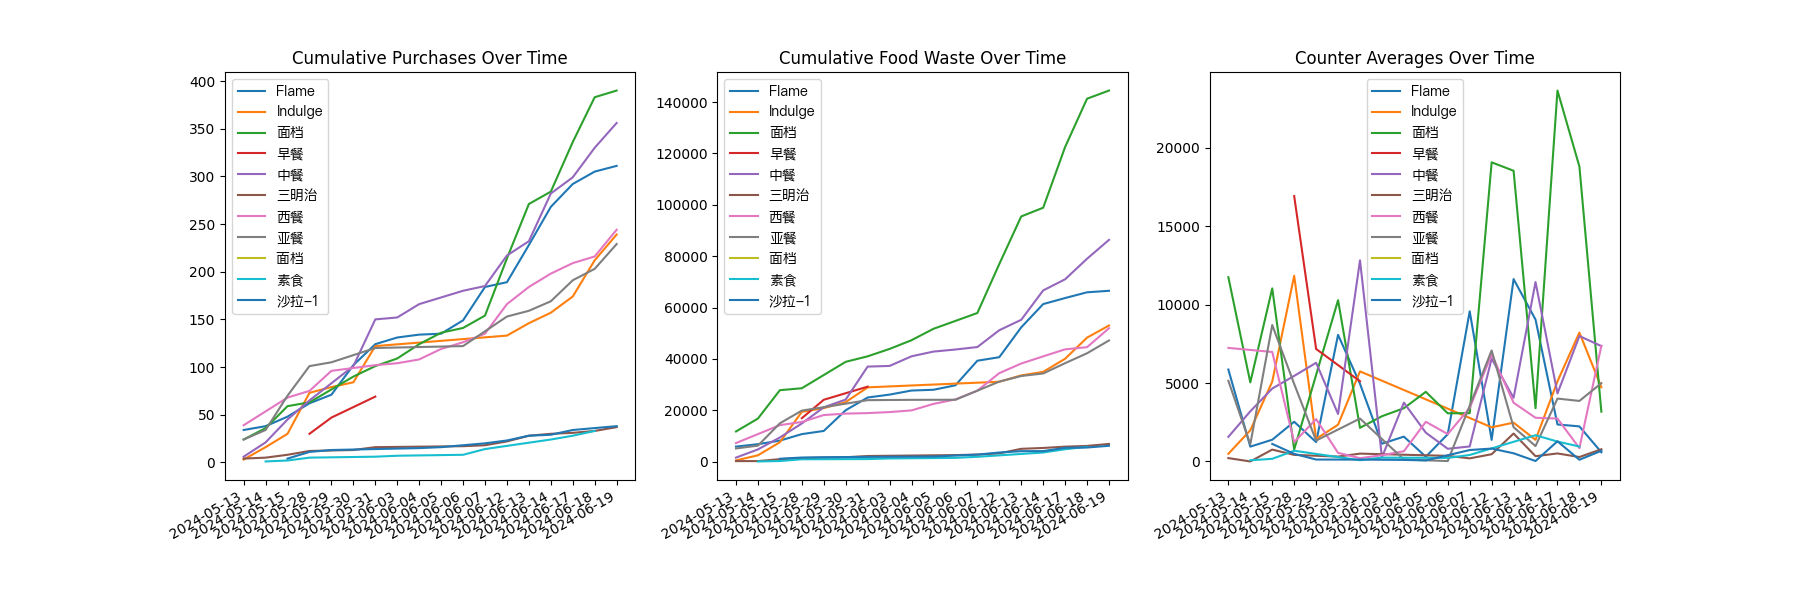
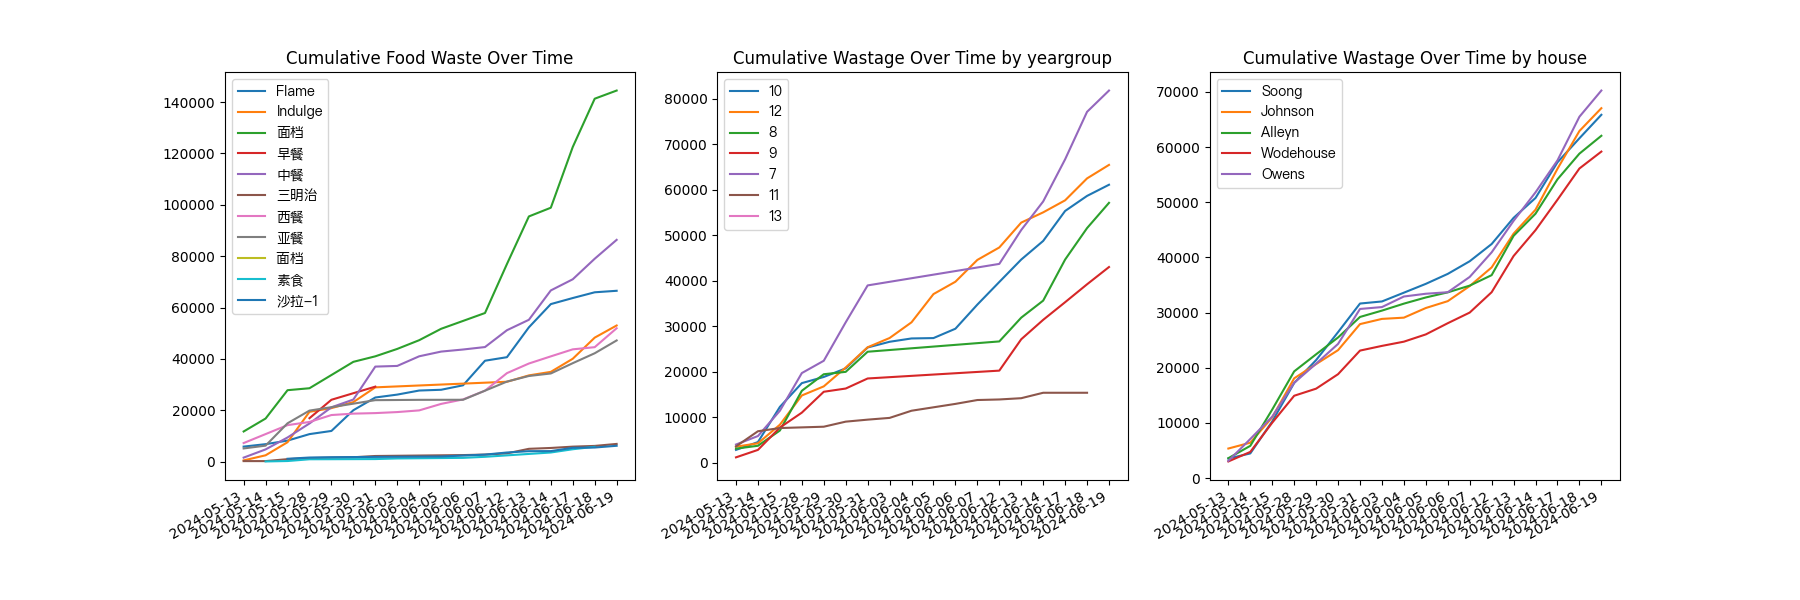
WIP

diff --git a/main.py b/main.py
@@ -36,9 +36,9 @@ def getDate():
     # Return the current date
     return datetime.now().strftime('%Y-%m-%d')
 
-def load_data():
+def load_data(file_path = 'combined_data/merged_data.json'):
     global all_data
-    with open('combined_data/merged_data.json', 'r') as f:
+    with open(file_path, 'r') as f:
         all_data = json.load(f)
 
 def getWeights(startDate, endDate):
@@ -354,6 +354,52 @@ def cumulative_plot_waste(ax):
     ax.set_title('Cumulative Food Waste Over Time')  # Add a title
     ax.legend(prop=font)
 
+def cumulative_spec_plot_weights(ax, ospec):
+    spec_wastage = {}
+
+    for member, member_data in all_data.items():
+        member_spec = member_data.get(ospec)
+        if not member_spec: # Skip members without the specified attribute
+            print(f"Member {member} does not have a {ospec}.")
+            continue
+        if member_spec not in spec_wastage:
+            spec_wastage[member_spec] = {}
+        for day, day_data in member_data.items():
+            if day == 'name' or day == 'house' or day == 'yeargroup' or day == 'formclass': # Skip non-day data
+                continue
+            has_weights = 'weights' in day_data and day_data['weights']
+
+            if has_weights:
+                total_weight = sum(day_data['weights'])
+                if day not in spec_wastage[member_spec]:
+                    spec_wastage[member_spec][day] = 0
+                spec_wastage[member_spec][day] += total_weight 
+
+    cumulative_spec_wastage = {}
+
+    for spec, daily_wastage in spec_wastage.items():
+        cumulative_spec_wastage[spec] = {}
+        # Sort the dates
+        sorted_dates = sorted(daily_wastage.keys(), key=lambda date: datetime.strptime(date, '%Y-%m-%d'))
+        # Initialize the cumulative total
+        cumulative_total = 0
+        for date in sorted_dates:
+            # Add the wastage for the current day to the cumulative total
+            cumulative_total += daily_wastage[date]
+            # Store the cumulative total for the current day
+            cumulative_spec_wastage[spec][date] = cumulative_total
+
+    for spec, daily_wastage in cumulative_spec_wastage.items():
+        # Sort the dates
+        sorted_dates = sorted(daily_wastage.keys(), key=lambda date: datetime.strptime(date, '%Y-%m-%d'))
+        sorted_wastage = [daily_wastage[date] for date in sorted_dates]
+        # Plot the data
+        ax.plot(sorted_dates, sorted_wastage, '-', label=spec)
+
+    plt.gcf().autofmt_xdate()  # Optional: for better formatting of date labels
+    ax.set_title(f'Cumulative Wastage Over Time by {ospec}')  # Add a title
+    ax.legend(prop=font)
+
 def cumulative_plot_buys(ax):
     cumulative_counter_purchases = {}
 
@@ -421,8 +467,8 @@ def rank_counters(average_wastage, total_wastage, counter_days):
 
 if __name__ == "__main__":
     #current_date = getDate()
-    report("2024-05-13", "2024-06-19") # Start date, end date
-    #load_data()
+    #report("2024-05-13", "2024-06-19") # Start date, end date
+    load_data()
 
     categories, both_counter_weights = categorize_data()
     for category, count in categories.items():
@@ -445,9 +491,13 @@ if __name__ == "__main__":
     f, (ax1, ax2, ax3) = plt.subplots(1, 3, figsize=(18, 6))
 
     # Pass the appropriate Axes object to each plotting function
-    cumulative_plot_buys(ax1) # Plots cumulative purchases
-    cumulative_plot_waste(ax2) # Plots cumulative wastage
-    plot_counter_averages(ax3) # Plots counter averages
+    #cumulative_plot_buys(ax1) # Plots cumulative purchases
+    
+    #cumulative_spec_plot_weights(ax1, 'formclass') # Plots cumulative wastage by formclass
+    cumulative_plot_waste(ax1) # Plots cumulative wastage
+    cumulative_spec_plot_weights(ax2, 'yeargroup')
+    cumulative_spec_plot_weights(ax3, 'house') # Plots cumulative wastage by house
+    #plot_counter_averages(ax3) # Plots counter averages
 
     # Ensure the 'plots' folder exists
     os.makedirs('plots', exist_ok=True)
